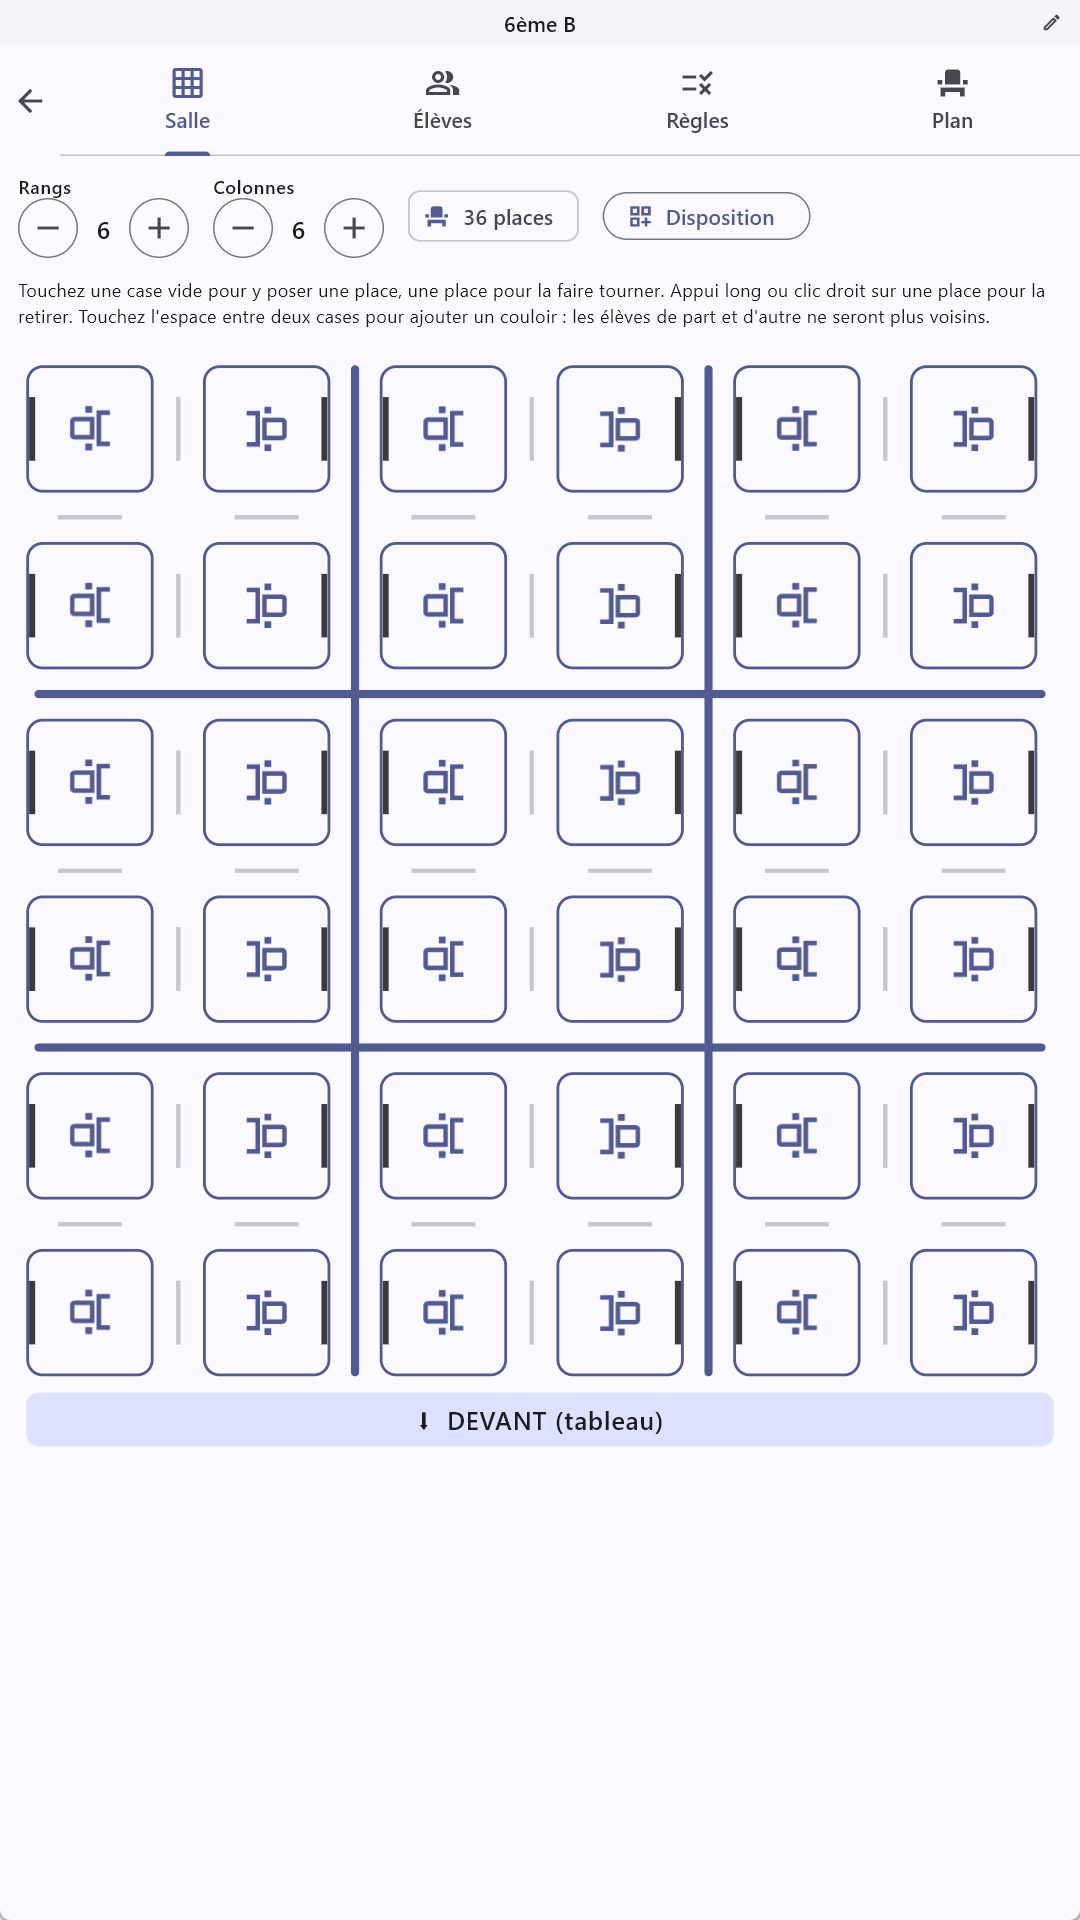
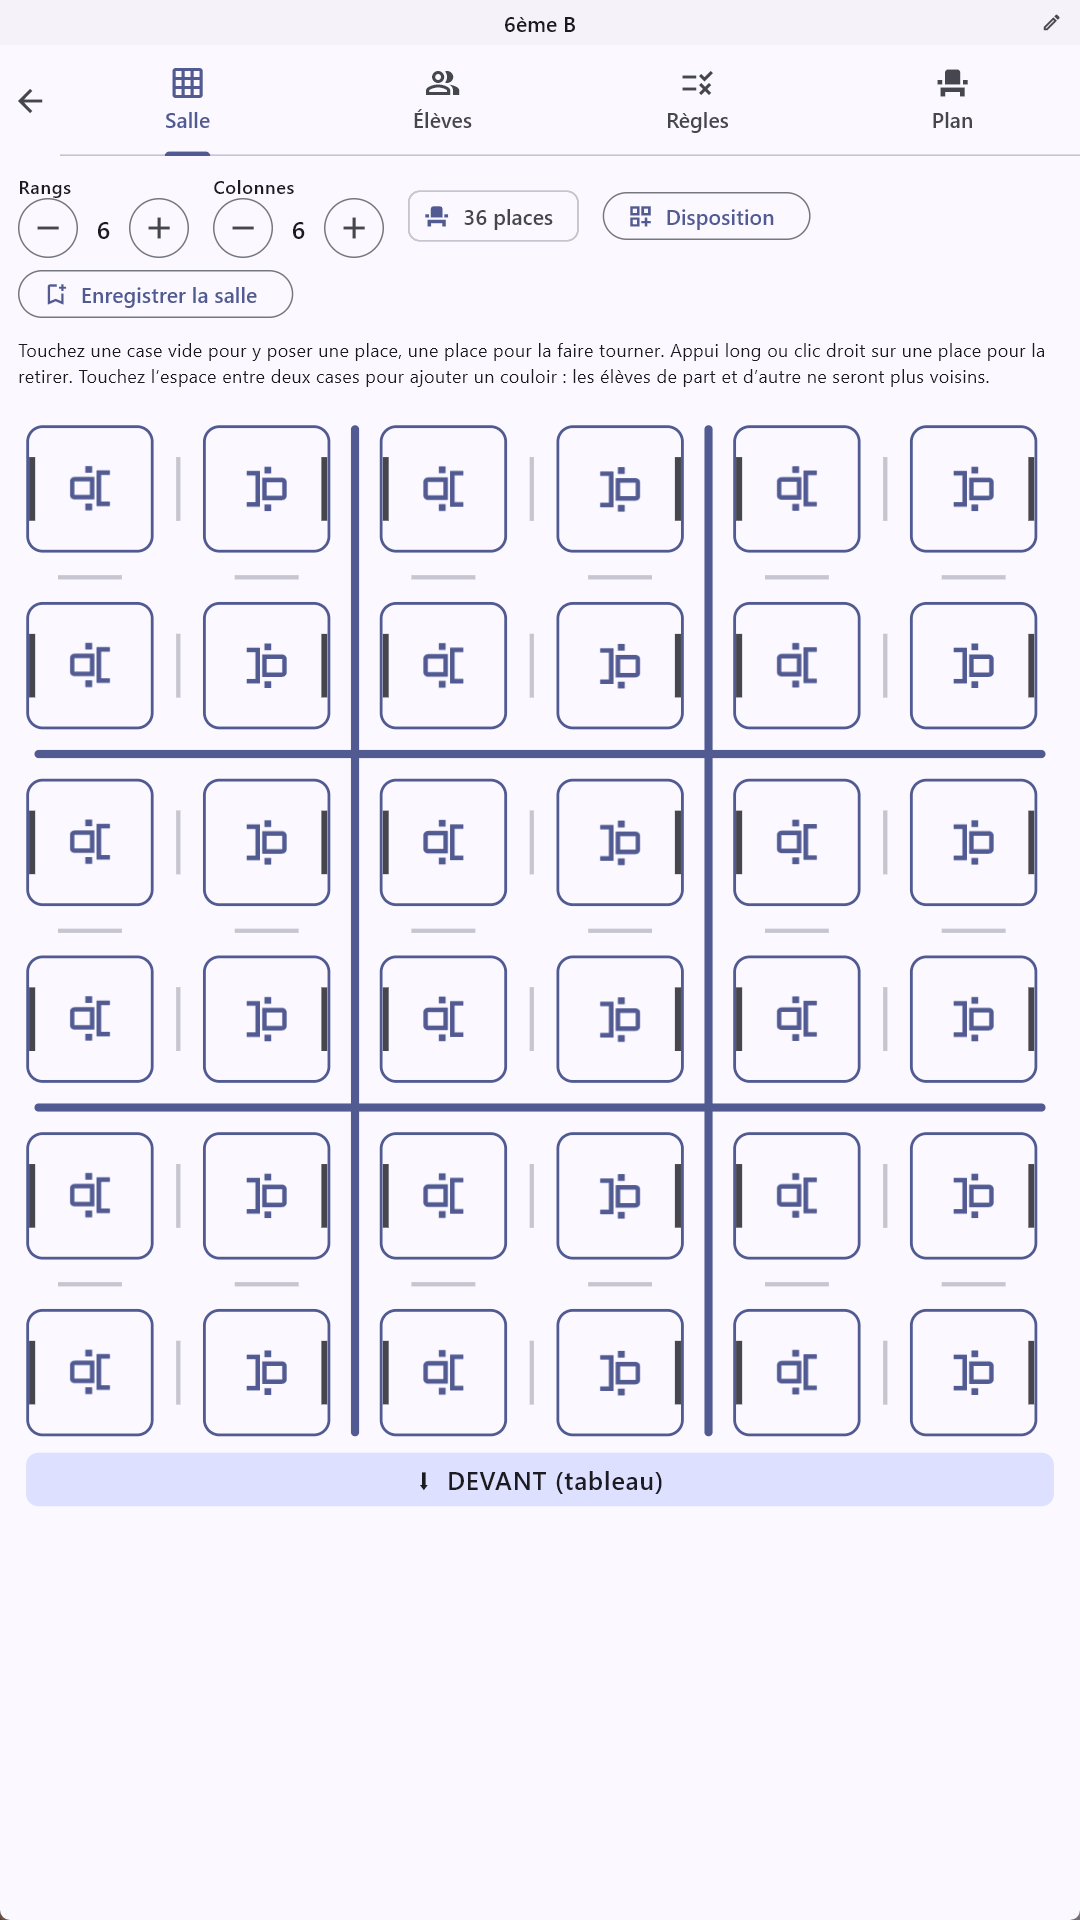
docs: captures Play en français et en anglais, avec scripts de capture
Les 8 captures sont refaites en thème clair (06 et 08 avaient été prises en
sombre), un jeu anglais est ajouté dans screenshots/en-US, et les scripts de
capture et le patch des hooks temporaires sont gardés dans store/play/tools.

Changed region(s): [[0.0, 0.125, 0.9778, 0.7812]]

diff --git a/store/play/README.md b/store/play/README.md
@@ -36,10 +36,11 @@ cases à cocher).
 vert canard/corail au lieu du bleu/rose d'origine, issue #27 — palette
 réglable en Réglages, voir le sélecteur ajouté à cette version).
 
-**Refaites partiellement pour la 1.12.0** (2 des 8) : `06-plan` et
-`08-plan-paysage`, pour montrer les nouveaux boutons de zoom avant/arrière
-dans la barre de commandes du Plan (issue #24). Les autres captures sont
-inchangées.
+**Refaites pour la 1.12.0** : les 8, en thème **clair** (forcé par le hook),
+pour montrer les boutons de zoom du Plan (issue #24) et fournir un jeu
+**anglais** dans `screenshots/en-US/` (classes « Grade 6B / 7A / 9C », mêmes
+élèves fictifs). Le jeu français reste dans `screenshots/`. Procédure et
+scripts : [`tools/README.md`](tools/README.md).
 
 ### Contraintes de dimensions (⚠ vérifié le 2026-08-25)
 
@@ -80,8 +81,8 @@ courant dans **chaque** langue, et vérifient les limites de caractères.
 
 **Play Console, une fois** : Fiche Play Store → Gérer les traductions → ajouter
 l'anglais, puis coller `title.txt`, `short_description.txt` et
-`full_description.txt` d'`en-US/`. Les captures et visuels se reprennent de la
-langue par défaut tant qu'on n'en fournit pas d'anglais. À chaque release, les
+`full_description.txt` d'`en-US/`, et téléverser `screenshots/en-US/` comme captures
+anglaises (icône et bandeau se reprennent de la langue par défaut). À chaque release, les
 notes de version se saisissent par langue (`<fr-FR>…</fr-FR>` / `<en-US>…</en-US>`).
 
 **Côté Android** : le nom de l'appli est la ressource `app_name`

diff --git a/store/play/tools/README.md b/store/play/tools/README.md
@@ -1,0 +1,13 @@
+# Captures Play : outillage
+
+Les captures `store/play/screenshots/` (fr) et `store/play/screenshots/en-US/` (en) sont prises sur le **build Windows**, pas sur Android.
+
+1. `git apply store/play/tools/screenshot-hooks.patch` : hooks temporaires pilotés par variables `PDC_SHOT_*` (classe de démo en mémoire, thème clair forcé, langue, vue Élèves, disposition en îlots, place en violation, feuille de détail). Rien n'est persisté. Si le patch ne s'applique plus, relire `lib/main.dart`, `class_editor_screen.dart` et `class_editor/plan_tab.dart` et le refaire à la main.
+2. `flutter build windows --debug`.
+3. **Fermer Teams et toute fenêtre sensible**, puis, depuis la racine du dépôt, dans PowerShell :
+   `.\store\play\tools\capture-all.ps1 -Locale fr -OutDir <dossier>` (idem `-Locale en`).
+   `capture.ps1` prend une capture seule (voir ses paramètres). Elle vise le moniteur **portrait**, dimensionne la zone client en 1080x1920 (1920x1080 avec `-Width/-Height`) et force la fenêtre au premier plan.
+4. **Relire chaque image** : une fenêtre étrangère devant l'appli est capturée telle quelle.
+5. `git apply -R store/play/tools/screenshot-hooks.patch`, puis copier les PNG.
+
+Pièges : le script est lu sans BOM par Windows PowerShell 5.1 (rester en ASCII dans les chaînes qui comptent) ; les lignes d'état « OK » ne prouvent pas que la capture est propre.
